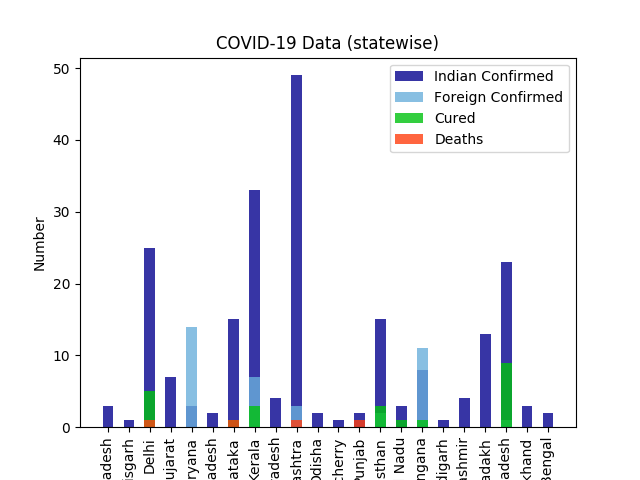
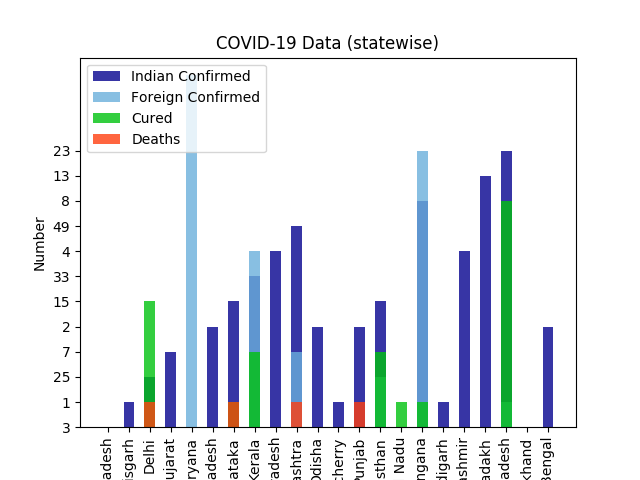
Minor bug fix

diff --git a/COVID-19-Tracker/plot_graph.py b/COVID-19-Tracker/plot_graph.py
@@ -107,6 +107,7 @@ def spread_chart():
         cured = df['cured'].tolist()
         death = df['death'].tolist()
         del cured[-1], death[-1], cnf_fn[-1], cnf_in[-1]
+        cnf_in = list(map(int, cnf_in))
 
         cnf_in_lst.append(sum(cnf_in))
         cnf_fn_lst.append(sum(cnf_fn))
